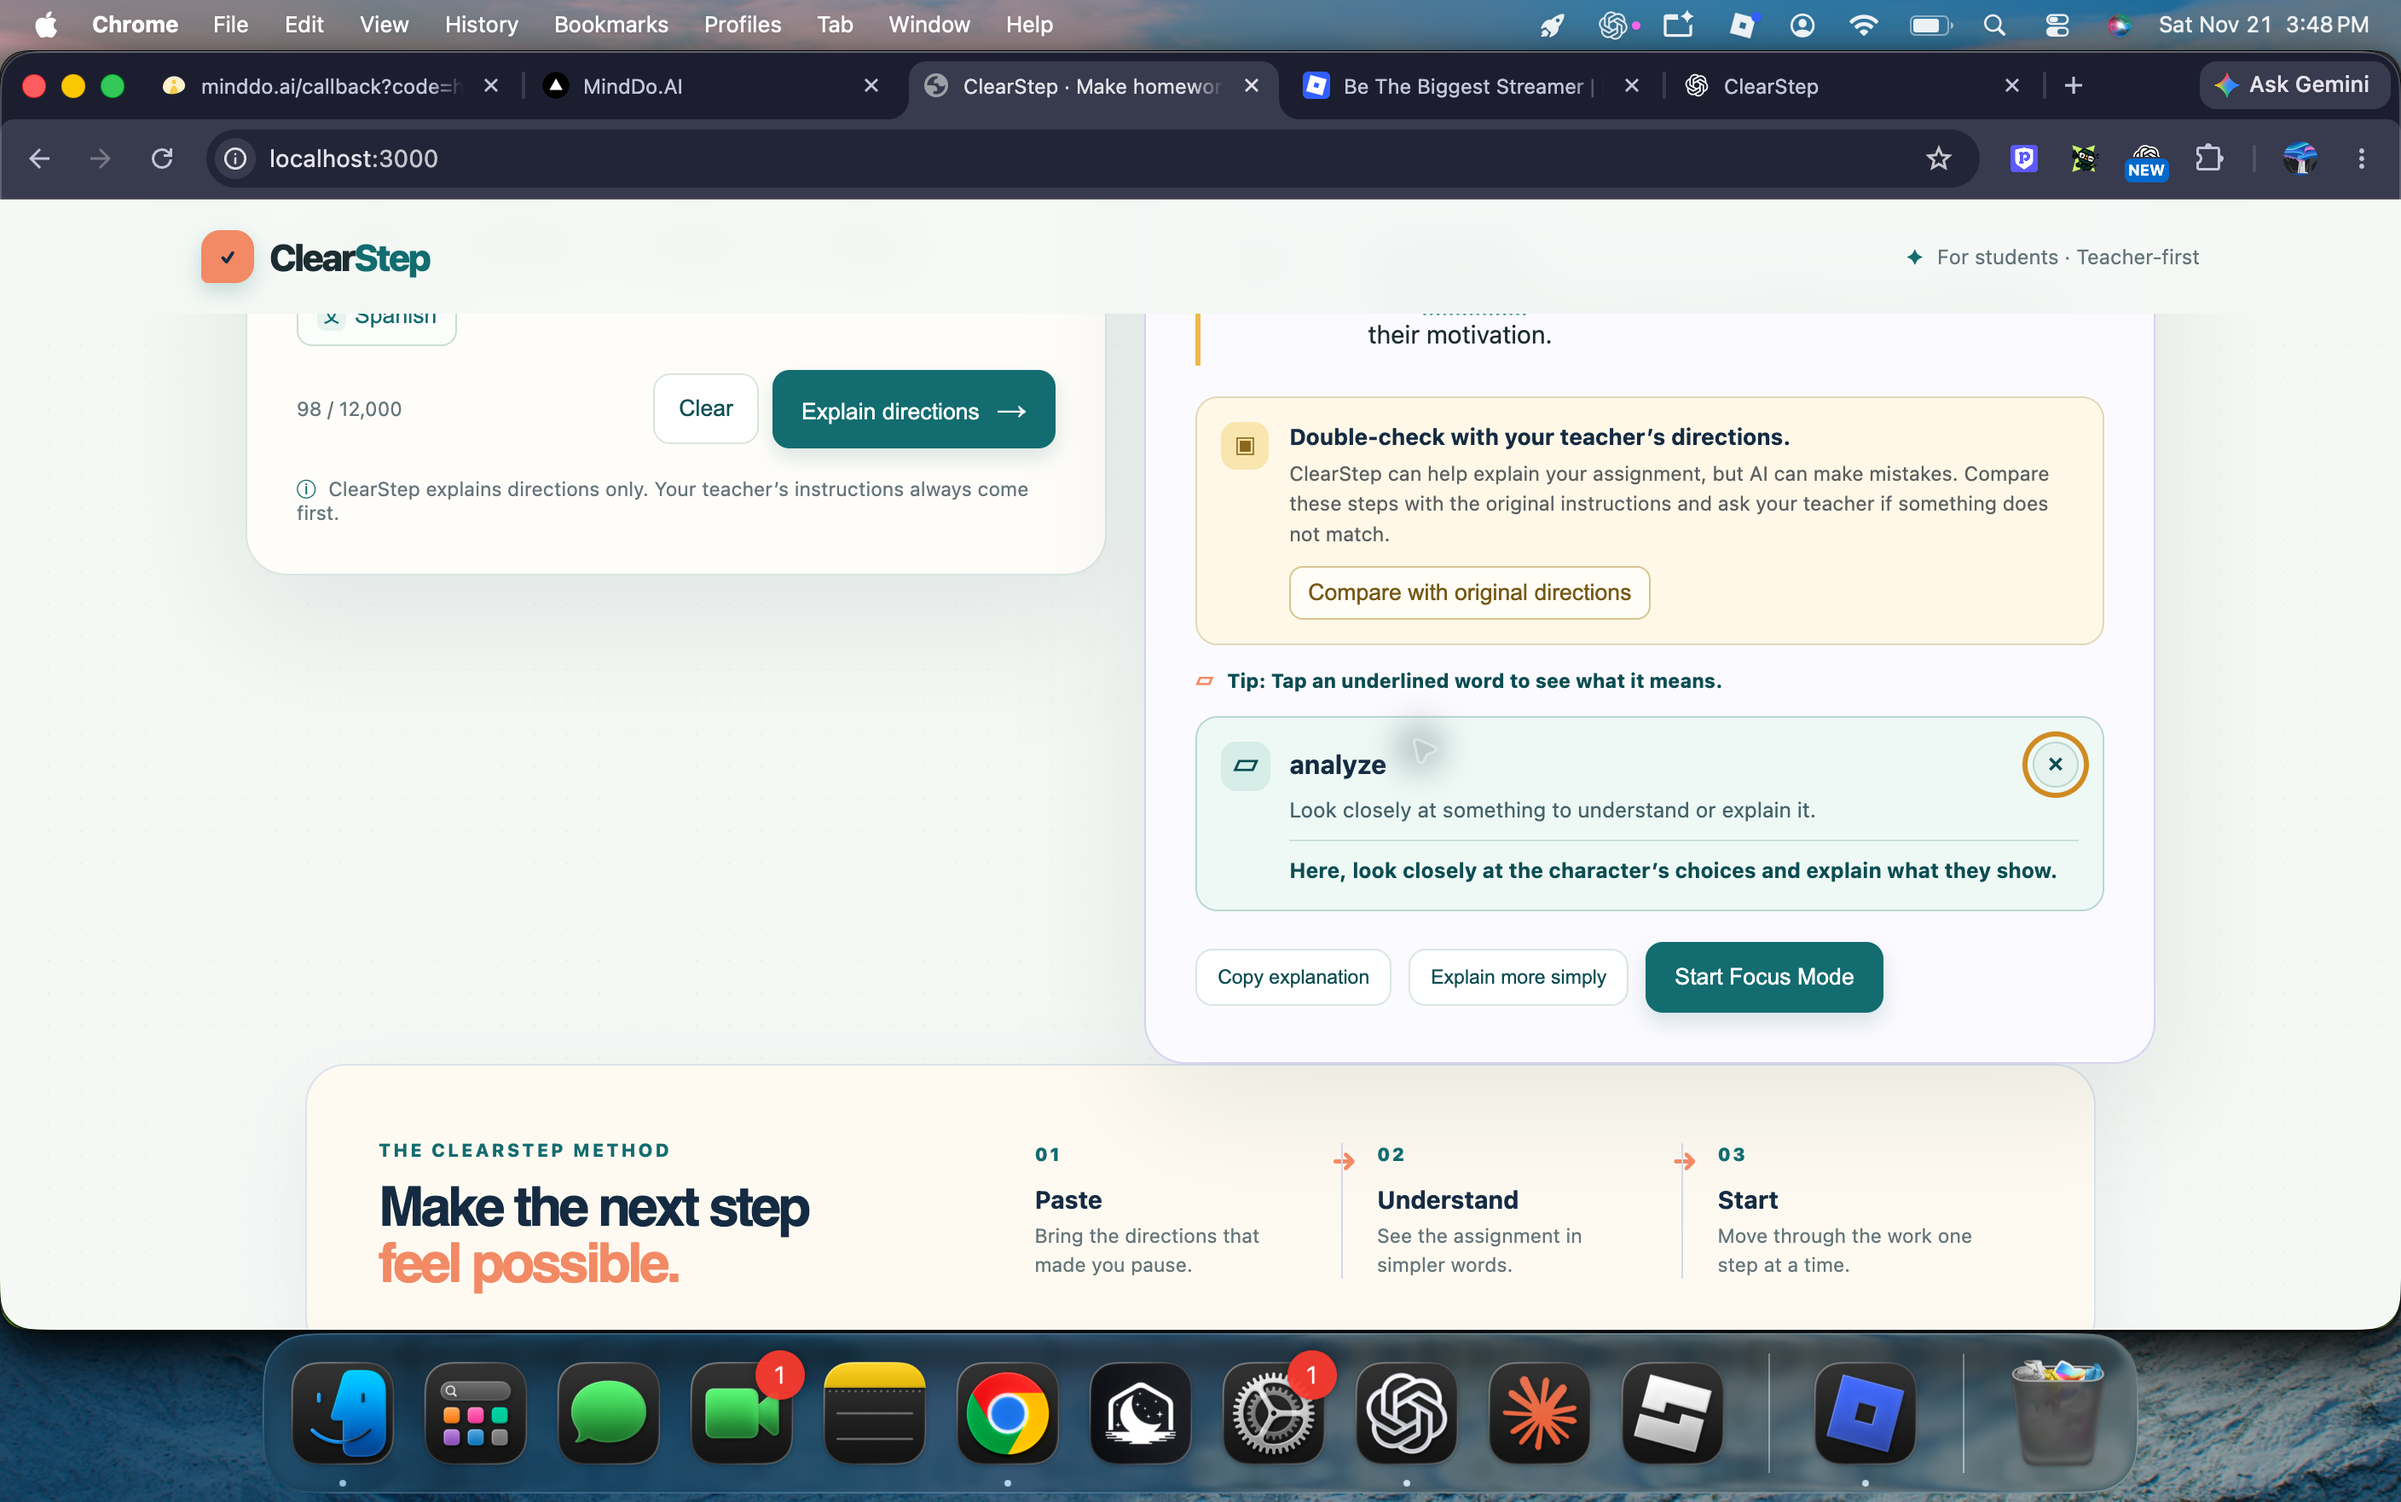
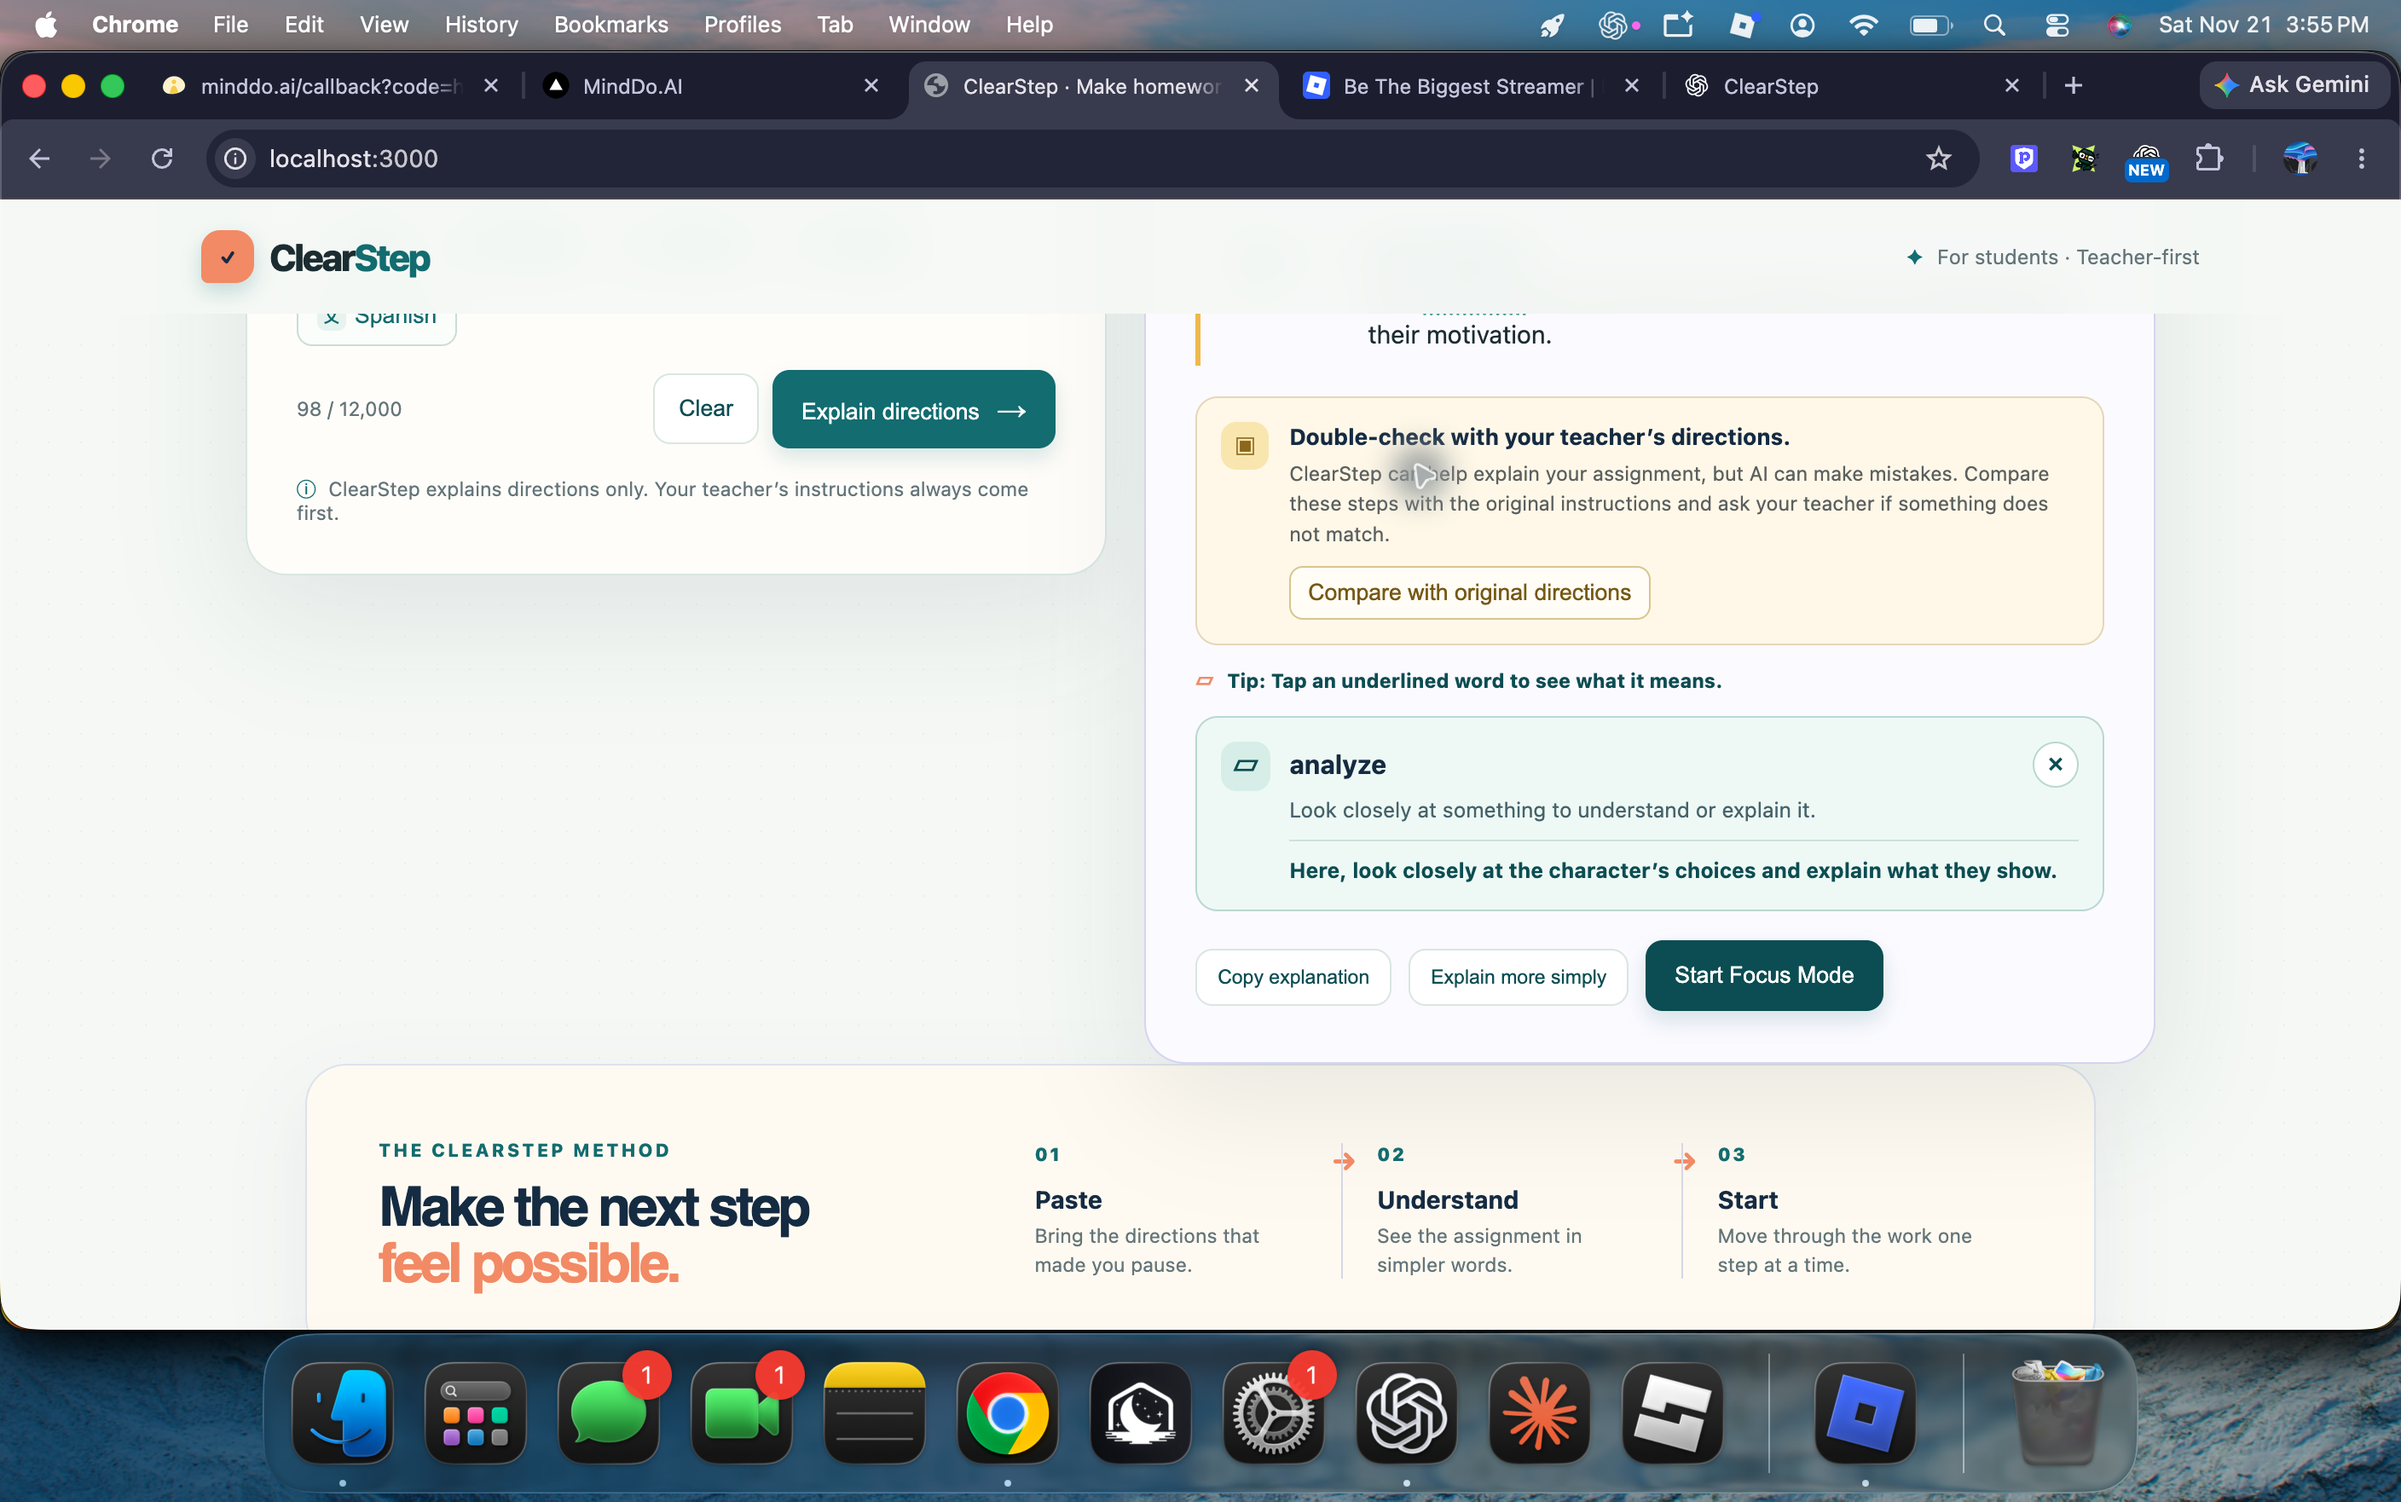
Improve vocabulary keyboard accessibility

diff --git a/public/app.js b/public/app.js
@@ -55,6 +55,7 @@ const definitionWord = document.querySelector('#definition-word');
 const definitionText = document.querySelector('#definition-text');
 const definitionContext = document.querySelector('#definition-context');
 const definitionClose = document.querySelector('#definition-close');
+let lastDefinitionTrigger = null;
 
 const EXAMPLES = {
   math: 'Solve problems 1–10 on page 76. Show your work for each problem and circle your final answers.',
@@ -99,14 +100,17 @@ let hasSavedFocusProgress = false;
 let explanationRequestId = 0;
 let loadingMessageTimer = null;
 
-function closeDefinition() {
+function closeDefinition({ restoreFocus = true } = {}) {
   definitionCard.hidden = true;
   definitionContext.hidden = true;
+  if (restoreFocus && lastDefinitionTrigger?.isConnected) lastDefinitionTrigger.focus();
+  lastDefinitionTrigger = null;
 }
 
-function showDefinition(word) {
+function showDefinition(word, trigger = null) {
   const entry = VOCABULARY[word.toLowerCase()];
   if (!entry) return;
+  lastDefinitionTrigger = trigger;
   definitionWord.textContent = word;
   definitionText.textContent = entry[0];
   const context = entry[1] || '';
@@ -129,7 +133,7 @@ function appendInteractiveText(parent, text) {
     button.className = 'vocab-word';
     button.textContent = part;
     button.setAttribute('aria-label', `Define ${part}`);
-    button.addEventListener('click', () => showDefinition(part));
+    button.addEventListener('click', () => showDefinition(part, button));
     parent.appendChild(button);
   });
 }
@@ -184,7 +188,7 @@ function resetDisplayedResult() {
   compareButton.setAttribute('aria-expanded', 'false');
   compareButton.textContent = 'Compare with original directions';
   vocabHint.hidden = true;
-  closeDefinition();
+  closeDefinition({ restoreFocus: false });
   focusButton.hidden = true;
   focusResume.hidden = true;
   focusContent.hidden = false;
@@ -451,14 +455,14 @@ function showResult(result, isError = false) {
     resultContent.textContent = result;
     focusButton.hidden = true;
     vocabHint.hidden = true;
-    closeDefinition();
+    closeDefinition({ restoreFocus: false });
     return;
   }
   if (isRefusal) {
     addRefusalResult(result);
     focusButton.hidden = true;
     vocabHint.hidden = true;
-    closeDefinition();
+    closeDefinition({ restoreFocus: false });
     return;
   }
   currentSteps = Array.isArray(result.steps) ? result.steps : [];
@@ -474,7 +478,7 @@ function showResult(result, isError = false) {
   addRequirementChecklist(result.importantRequirements);
   renderComparison(result);
   vocabHint.hidden = !resultContent.querySelector('.vocab-word');
-  closeDefinition();
+  closeDefinition({ restoreFocus: false });
   stepProgress.hidden = currentSteps.length === 0;
   focusButton.hidden = currentSteps.length === 0;
   updateStepProgress();
@@ -484,6 +488,9 @@ compareButton.addEventListener('click', () => {
   updateComparisonVisibility(comparisonPanel.hidden);
 });
 definitionClose.addEventListener('click', closeDefinition);
+document.addEventListener('keydown', (event) => {
+  if (event.key === 'Escape') closeDefinition();
+});
 
 function resultToText(result) {
   if (typeof result === 'string') return result;

diff --git a/OTHER_TASK_4_TEST_RESULTS.md b/OTHER_TASK_4_TEST_RESULTS.md
@@ -11,18 +11,18 @@ Task 4: The user can tap a confusing word to see what it means.
 | 3. Click “infer” | A clear explanation appears. | The dictionary entry is implemented, but this word was not live-clicked in this pass. | Not tested |
 | 4. Click “hypothesis” | A science-appropriate definition appears. | The dictionary entry is implemented, but this word was not live-clicked in this pass. | Not tested |
 | 5. Click “evidence” | A useful definition appears. | `evidence` is visibly underlined in the live result and is included in the built-in dictionary. | Pass |
-| 6. Open and close a definition | The card closes correctly. | The close control is visible in the live card; closing behavior is wired to the button. | Pass |
-| 7. Open one definition and then another | The new word replaces the old definition. | The replacement logic is implemented, but two different words were not live-clicked in this pass. | Not tested |
+| 6. Open and close a definition | The card closes correctly. | The live card closed with its X button and also closed with Escape. | Pass |
+| 7. Open one definition and then another | The new word replaces the old definition. | The live card changed from `analyze` to `Identify` while Focus Mode remained open. | Pass |
 | 8. Use a word in a numbered step | The step stays readable and interactive. | `Identify` and `evidence` are underlined in the live numbered steps. | Pass |
-| 9. Use the feature in Focus Mode | Definitions work without breaking navigation. | Focus Mode has separate rendering and was not live-tested in this pass. | Not tested |
+| 9. Use the feature in Focus Mode | Definitions work without breaking navigation. | Focus Mode showed an interactive `Identify` word; opening and closing its card worked, and exiting returned to the normal result. | Pass |
 | 10. Generate a new assignment | Old definition state resets. | Result rendering closes any open card and resets the hint state. | Pass (code review) |
 | 11. Clear the assignment | The definition card disappears. | Reset logic closes the card and hides the hint. | Pass (code review) |
 | 12. Use a 390px mobile viewport | Card fits without horizontal overflow. | Responsive styles are included, but a 390px browser check was not run. | Not tested |
-| 13. Use keyboard navigation | Word and close controls are accessible. | Words are real labeled buttons, with focus styling and a close button that receives focus. | Pass (code review) |
+| 13. Use keyboard navigation | Word and close controls are accessible. | The word is a labeled button, the card close control receives focus, Escape closes it, and focus returns to the word. | Pass |
 | 14. Use a long assignment | Feature remains responsive. | Not tested with a long live assignment in this pass. | Not tested |
 | 15. Verify original explanation text is unchanged | Only visual treatment changes. | Text is added as safe DOM nodes; the original result data remains unchanged. | Pass (code review) |
 
-Additional live proof: the hint “Tip: Tap an underlined word to see what it means.” appears only when supported words are present, and `other-task-4-proof.png` shows the open card in Chrome.
+Additional live proof: the main homework explanation still showed its summary, numbered steps, checkboxes, progress tracker, teacher reminder, and original-directions comparison. The hint “Tip: Tap an underlined word to see what it means.” appeared only when supported words were present, and `other-task-4-proof.png` shows the open `analyze` card in Chrome.
 
 ## Verification commands
 
